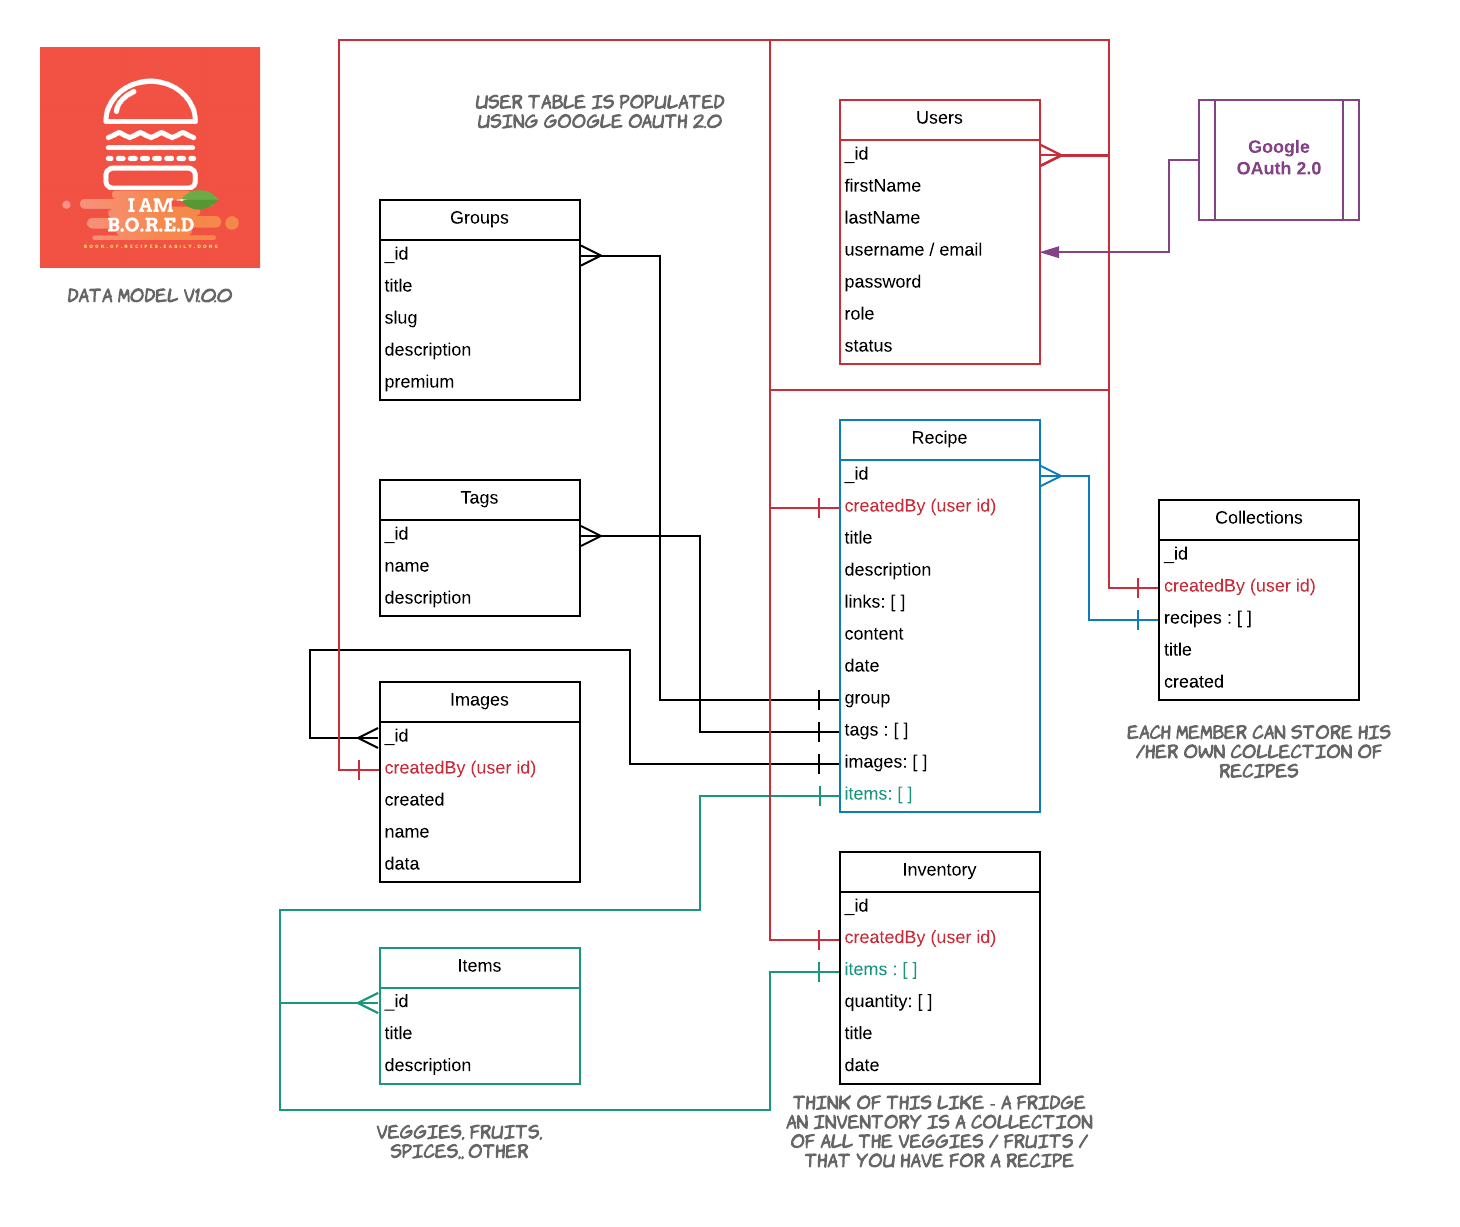
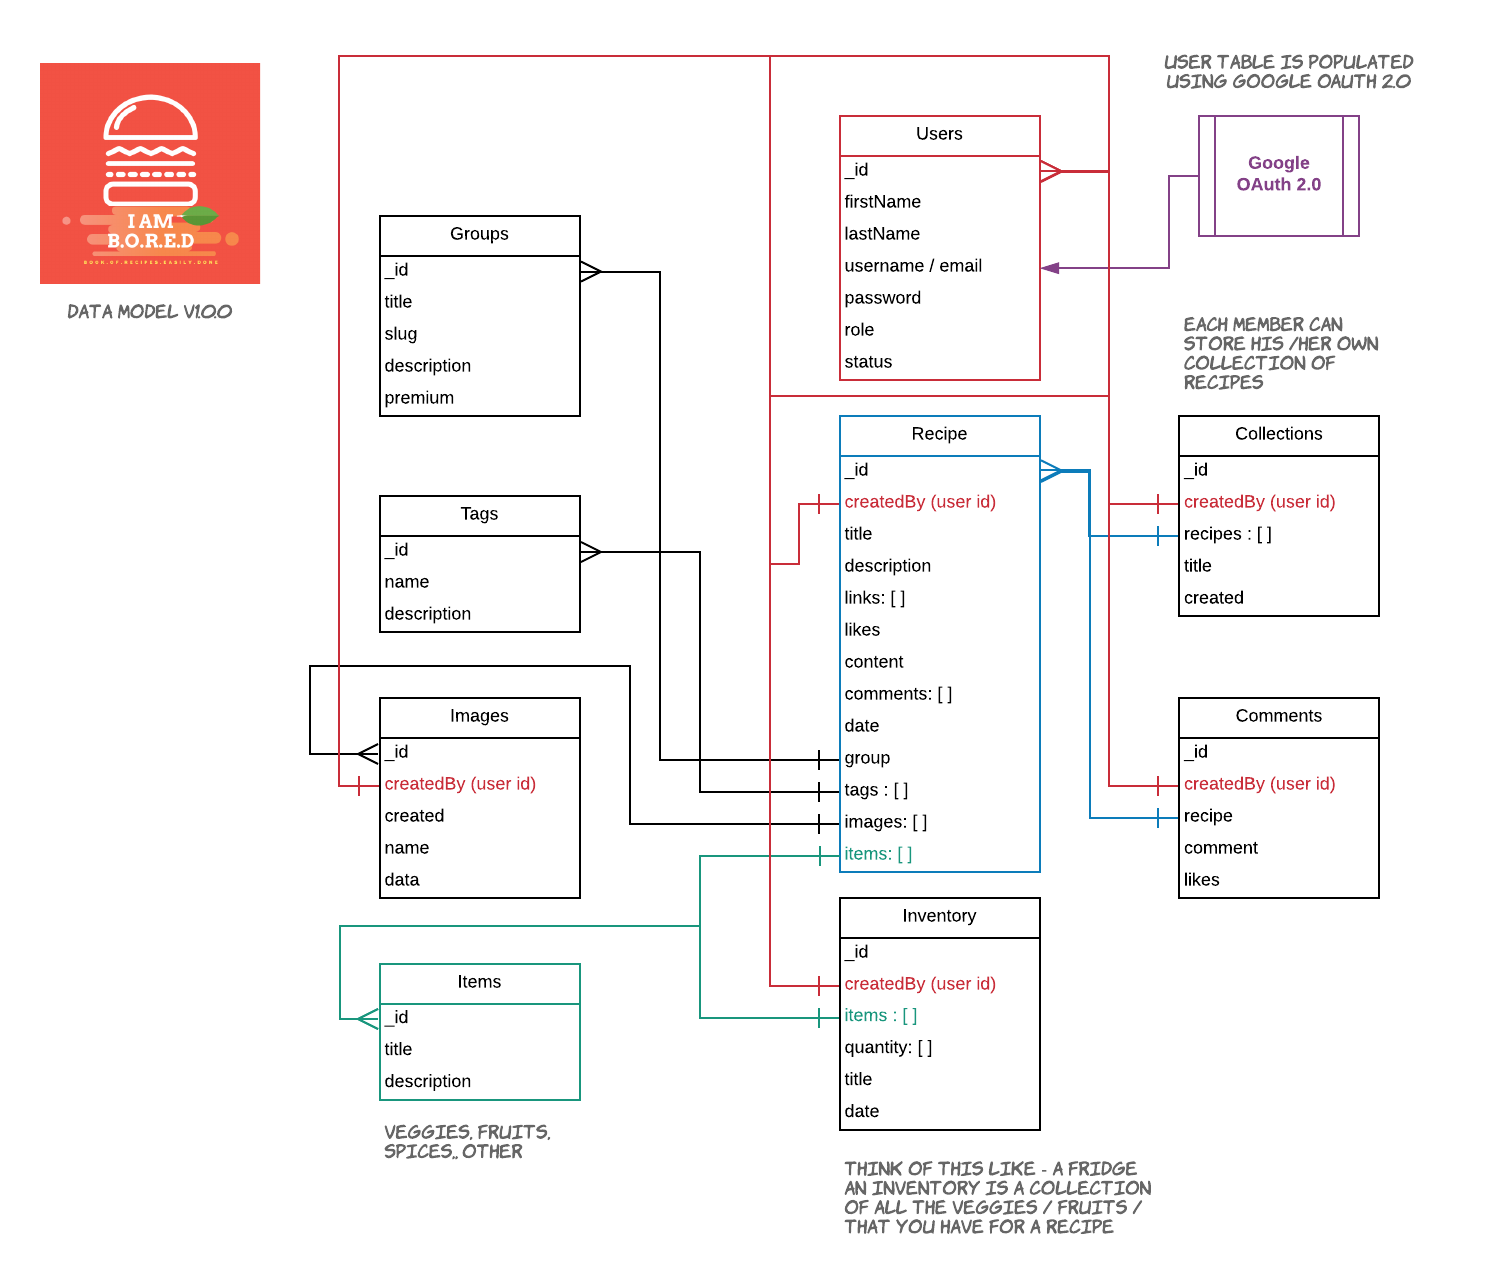
recipe model design

Changed region(s): [[0.1849, 0.031, 0.9555, 0.9601], [0.0308, 0.031, 0.1849, 0.2478], [0.9247, 0.4026, 0.9555, 0.4645]]

diff --git a/backend/src/inventory/controllers/inventory.controller.js b/backend/src/inventory/controllers/inventory.controller.js
@@ -1,0 +1,129 @@
+/**
+ * CRUD - Controller for Group Model
+ */
+require('./../../util/colors');
+import { InventoryService } from "../services/inventory.service";
+import { AuthService } from "../../auth/services/auth.service";
+
+export class InventoryController {
+
+    constructor() {
+        this.logger = 'InventoryController';
+        this.inventoryService = new InventoryService();
+        this.authService = new AuthService();
+        // bind context
+        this.checkAuthentication = this.checkAuthentication.bind(this);
+        this.getAllInventory = this.getAllInventory.bind(this);
+        this.addNewInventory = this.addNewInventory.bind(this);
+        this.getInventoryById = this.getInventoryById.bind(this);
+        this.updateInventoryById = this.updateInventoryById.bind(this);
+        this.deleteInventoryById = this.deleteInventoryById.bind(this);
+    }
+
+    /**
+     * PAJ - Check Cookie header present
+     * @param req
+     * @param res
+     * @returns user / 401
+     */
+    checkAuthentication (req, res) {
+        if (!this.authService.authenticateUser(req)) {
+            return res.sendStatus(401);
+        } else {
+            return req.user;
+        }
+    }
+
+    /**
+     * PAJ - Fetch all Inventory. Requires Cookie Session
+     * @param req
+     * @param res
+     * @returns {Promise<any>}
+     */
+    async getAllInventory (req, res) {
+        const user = this.checkAuthentication (req, res);
+        try {
+            const result = await this.inventoryService.getAllInventory(user.id);
+            return res.json(result);
+        } catch (err) {
+            console.log(`${this.logger} error fetch all inventory: ${JSON.stringify(err)}`.error);
+            return res.sendStatus(500);
+        }
+    }
+
+    /**
+     * PAJ - Create a new inventory record. Requires Cookie Session
+     * @param req
+     * @param res
+     * @returns {Promise<any>}
+     */
+    async addNewInventory (req, res) {
+        const user = this.checkAuthentication(req, res);
+        try {
+            const result = await this.inventoryService.addNewInventory(req.body, user.id);
+            console.log(`${this.logger} - New Record added`, result);
+            return res.sendStatus(201);
+        } catch (err) {
+            if (err.code === 11000) {
+                console.log(`${this.logger} Duplicate Record: ${JSON.stringify(err)}`.error);
+                return res.sendStatus(400);
+            } else {
+                console.log(`${this.logger} Internal Server error: ${JSON.stringify(err)}`.error);
+                return res.sendStatus(500);
+            }
+        }
+    }
+
+    /**
+     * PAJ - Fetch record by id. Requires Cookie Session
+     * @param req
+     * @param res
+     * @returns {Promise<*>}
+     */
+    async getInventoryById (req, res) {
+        this.checkAuthentication(req, res);
+        try {
+            const result = await this.inventoryService.getInventoryById(req.params.groupId);
+            return res.json(result);
+        } catch (err) {
+            console.log(`${this.logger} Error Retrieving Id: ${JSON.stringify(err)}`.error);
+            return res.sendStatus(400);
+        }
+    }
+
+    /**
+     * PAJ - Update record by Id. Requires Cookie Session
+     * @param req
+     * @param res
+     * @returns {Promise<*>}
+     */
+    async updateInventoryById (req, res) {
+        this.checkAuthentication(req, res);
+        try {
+            const result = await this.inventoryService.updateInventoryById(req.params.groupId, req.body);
+            console.log(`${this.logger} - Record updated: `, result);
+            return res.sendStatus(200);
+        } catch (err) {
+            console.log(`${this.logger} Error updating record: ${JSON.stringify(err)}`.error);
+            return res.sendStatus(400);
+        }
+    }
+
+    /**
+     * PAJ - Delete record by Id. Requires Cookie Session
+     * @param req
+     * @param res
+     * @returns {Promise<*>}
+     */
+    async deleteInventoryById (req, res) {
+        this.checkAuthentication(req, res);
+        try {
+            const result = await this.inventoryService.deleteInventoryById(req.params.groupId);
+            console.log(`${this.logger} - Record deleted: `, result);
+            return res.sendStatus(200);
+        } catch (err) {
+            console.log(`${this.logger} Error updating record: ${JSON.stringify(err)}`.error);
+            return res.sendStatus(400);
+        }
+    }
+}

diff --git a/backend/src/inventory/services/inventory.service.js b/backend/src/inventory/services/inventory.service.js
@@ -1,3 +1,5 @@
+import {GroupModel} from "../../groups/models/group.model";
+
 /**
  * PAJ - Image Service Layer
  * */
@@ -10,14 +12,15 @@ export class InventoryService {
         //bind context
         this.getAllInventory = this.getAllInventory.bind(this);
         this.addNewInventory = this.addNewInventory.bind(this);
+        this.updateInventoryById = this.updateInventoryById.bind(this);
         this.getInventoryById = this.getInventoryById.bind(this);
         this.deleteInventoryById = this.deleteInventoryById.bind(this);
     }
 
     // Fetch all records
-    async getAllInventory () {
+    async getAllInventory (userId) {
         return new Promise((resolve, reject) => {
-            InventoryModel.find({})
+            InventoryModel.find({ createdBy: userId })
                 .populate('users')
                 .populate('items')
                 .exec((err, data) => {
@@ -31,13 +34,13 @@ export class InventoryService {
     async addNewInventory (payload, userId) {
         return new Promise((resolve, reject) => {
             const { title, description, meta } = payload;
-            let newImageRecord = new InventoryModel({
+            let newRecord = new InventoryModel({
                 title,
                 description,
                 createdBy: userId,
                 meta: meta
             });
-            newImageRecord.save((err, data) => {
+            newRecord.save((err, data) => {
                 if (err) reject(err);
                 else resolve(data);
             });
@@ -54,6 +57,16 @@ export class InventoryService {
                     if (err) reject(err);
                     else resolve(data);
                 });
+        });
+    }
+
+    // CREATE - new record
+    async updateInventoryById (id, payload) {
+        return new Promise((resolve, reject) => {
+            InventoryModel.findOneAndUpdate({_id: id}, payload, {new: true}, (err, data) => {
+                if (err) reject(err);
+                else resolve(data); // Get JSON format of contact
+            });
         });
     }
 

diff --git a/backend/src/recipes/models/recipe.model.js b/backend/src/recipes/models/recipe.model.js
@@ -1,0 +1,51 @@
+/**
+ * Model for Items - (Vegetables, Fruits, Spices) server side schema
+ */
+import mongoose, { Schema } from 'mongoose';
+
+export const RecipeSchema = new Schema({
+    recipeId: {
+        type: String,
+        required: true
+    },
+    created: {
+        type: Date,
+        default: Date.now
+    },
+    title: {
+        type: String,
+        required: 'Enter Item',
+        lowercase: true,
+        trim: true,
+    },
+    description: {
+        type: String,
+        required: 'Enter Item Description'
+    },
+    content: [{
+        type: String,
+        required: 'Enter Item Description'
+    }],
+    createdBy: {
+        type: Schema.Types.ObjectId,
+        ref: 'users'
+    },
+    group: {
+        type: Schema.Types.ObjectId,
+        ref: 'groups'
+    },
+    tags: [{
+        type: Schema.Types.ObjectId,
+        ref: 'tags'
+    }],
+    items: [{
+        type: Schema.Types.ObjectId,
+        ref: 'items'
+    }],
+    images: [{
+        type: Schema.Types.ObjectId,
+        ref: 'images'
+    }],
+});
+
+export const RecipeModel = mongoose.model('recipes', RecipeSchema);

diff --git a/README.md b/README.md
@@ -47,6 +47,7 @@ Comparing a Similar project I pulled off in the past. The Total time taken to co
 
 ## Important Links
 
+- [Collection of UI Designs - XD, Wireframes](https://uidesigndaily.com/posts/sketch-file-upload-form-day-919)
 - [Release Countdown Timer](https://timely-travel.herokuapp.com/#/preview/5ed21485c51b01001783b512) 
 - [Kanbanchi - Tasks / Backlog Link](https://kanban-chi.appspot.com/dashboard/5515963025588224-6179838427398144/d-5515963025588224)
 - [PWA assets generator - IOS](https://github.com/onderceylan/pwa-asset-generator)
